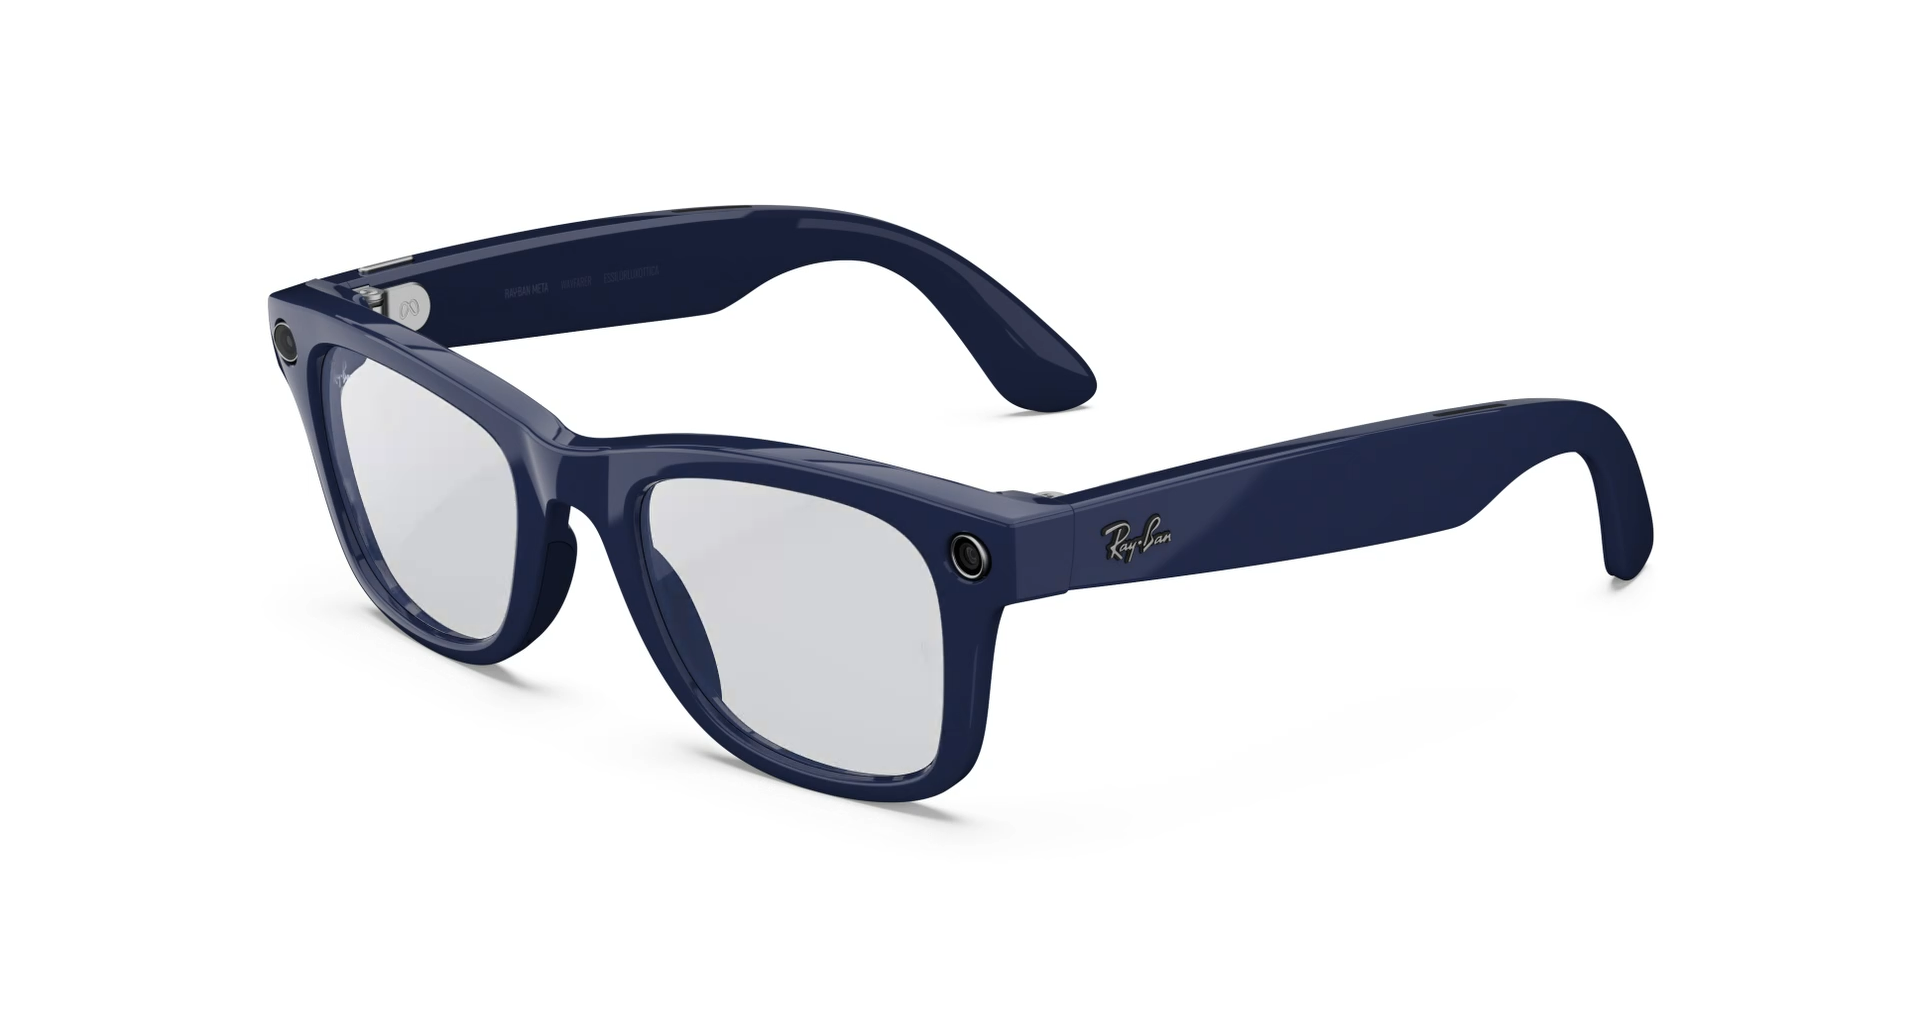
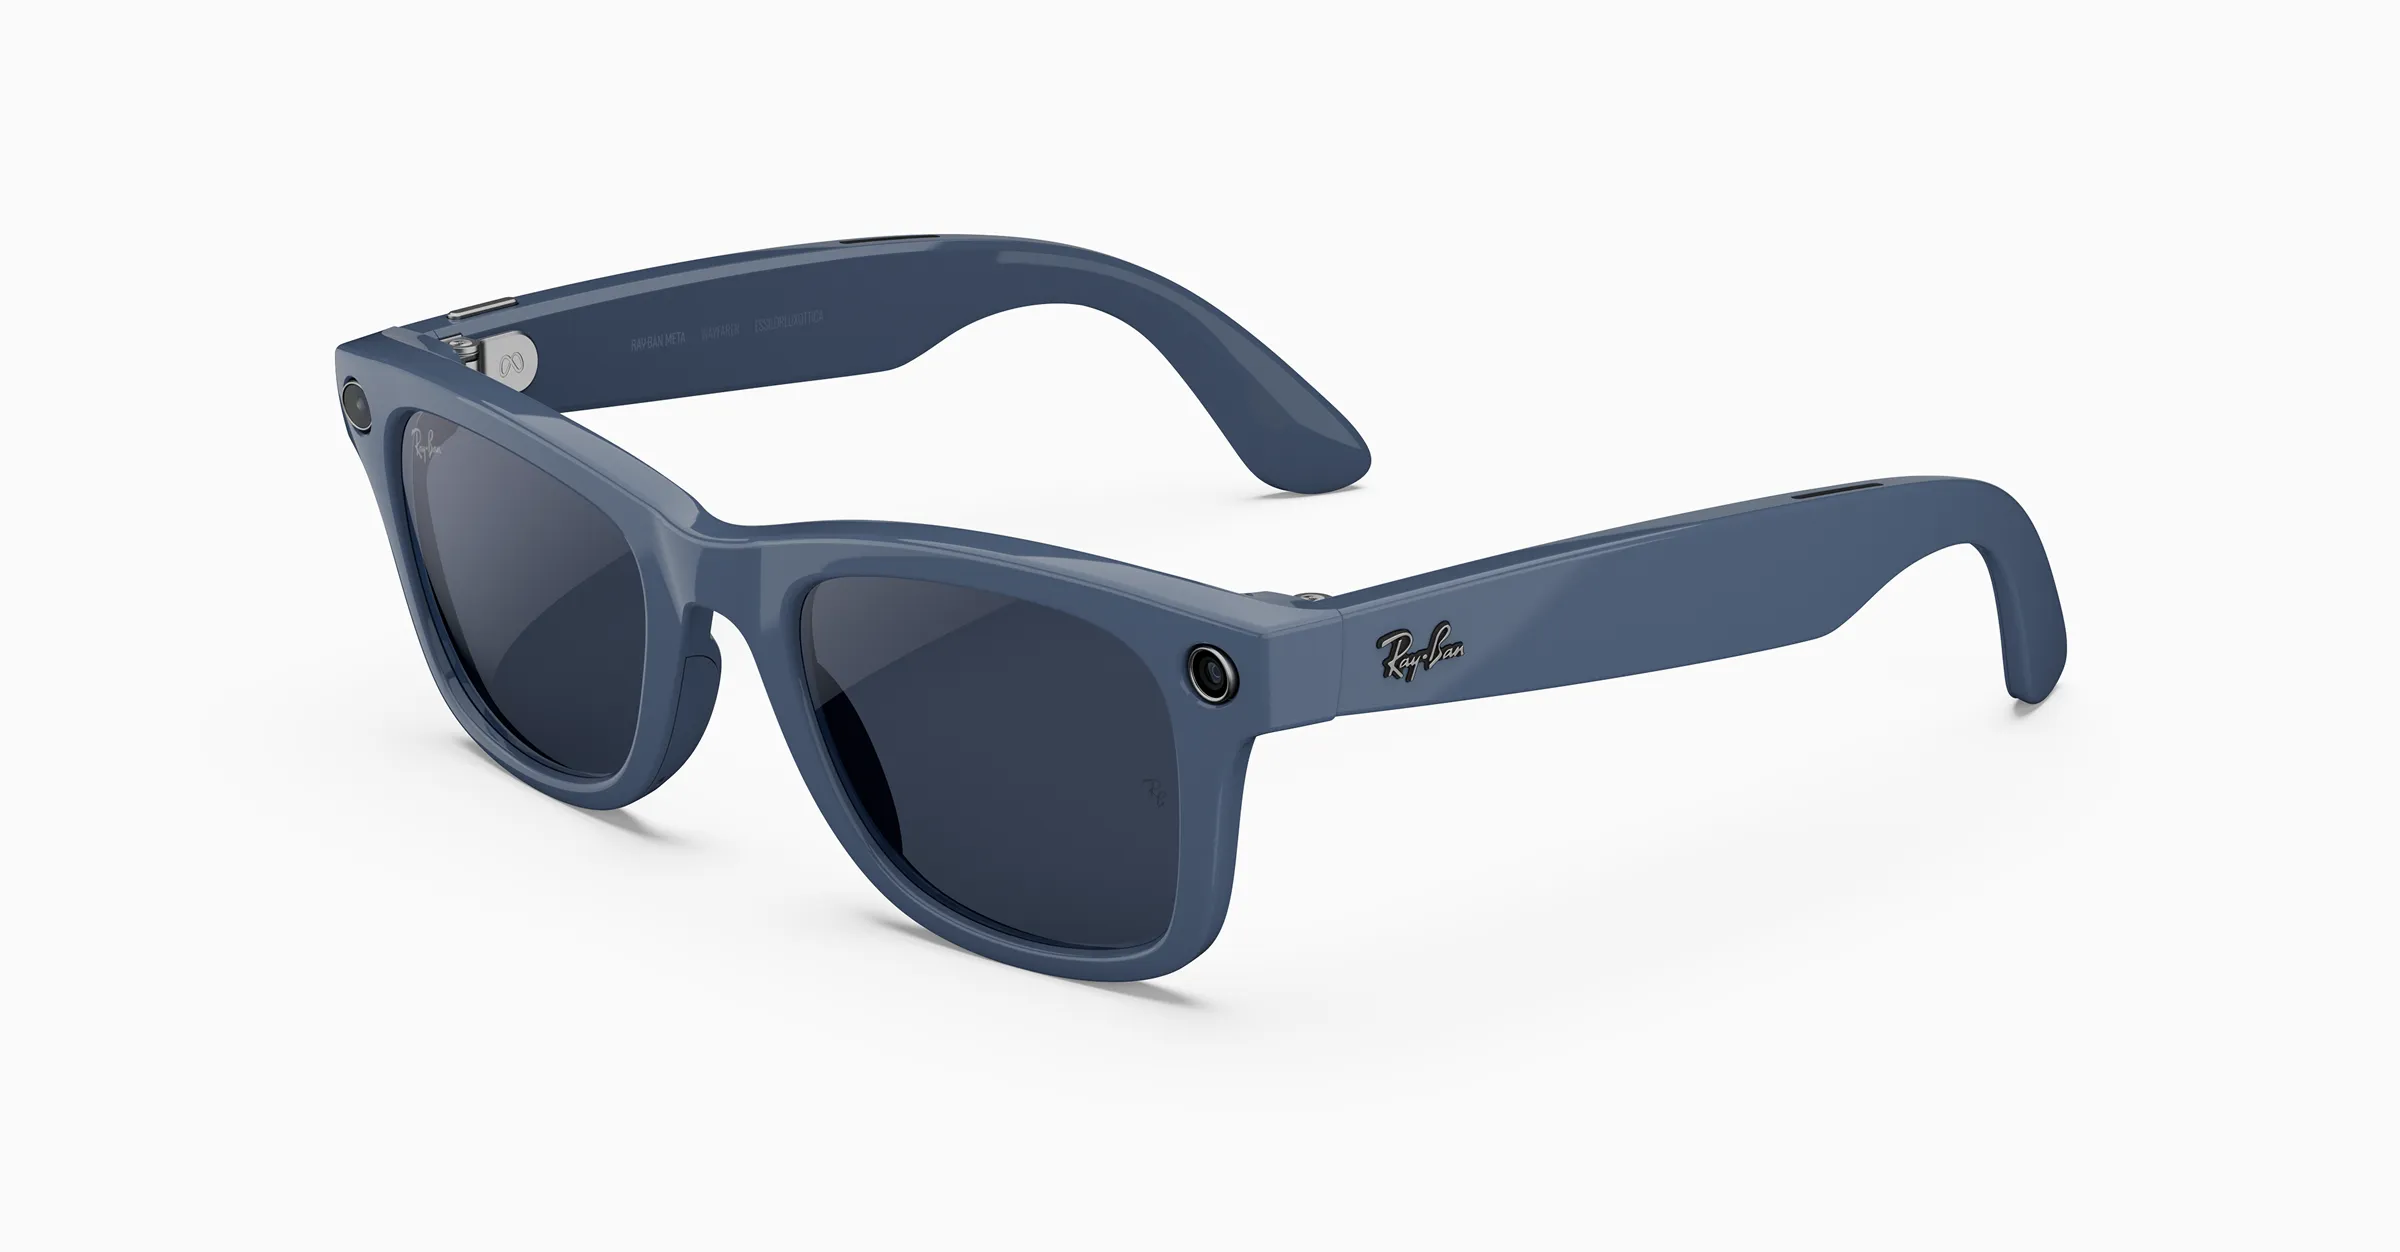
correções foto e nome

Changed region(s): [[0.125, 0.1853, 0.875, 0.8031]]

diff --git a/index.html b/index.html
@@ -4,7 +4,7 @@
 <head>
   <meta charset="utf-8" />
   <meta name="viewport" content="width=device-width,initial-scale=1" />
-  <title>Mercadótica | RayBan Meta</title>
+  <title>Mercadótica | Ray-Ban Meta</title>
   <link rel="stylesheet" href="styles.css" />
 </head>
 
@@ -264,7 +264,7 @@
   <p>Compre o Ray-Ban Meta agora — escolha modelo, cor e lentes para levar sua perspectiva ao próximo nível.</p>
   <div class="btn-group">
     <a class="btn primary"
-      href="https://wa.me/557734296068?text=Olá,%20gostaria%20de%20comprar%20o%20RayBan%20Meta%20">Comprar agora</a>
+      href="https://wa.me/557734296068?text=Olá,%20gostaria%20de%20comprar%20o%20Ray-Ban%20Meta%20">Comprar agora</a>
   </div>
 </section>
 
@@ -308,22 +308,55 @@
       else v0.play().catch(() => { });
     });
   </script>
-  <script>
-    // Ativar hotspots por toque no celular
-    document.querySelectorAll('.hotspot').forEach(hotspot => {
-      hotspot.addEventListener('click', function (e) {
-        e.stopPropagation(); // Evita conflito com outros toques
-        this.classList.toggle('active'); // Mostra/oculta o texto
-      });
-    });
+<script>
+  // Ativar hotspots por toque no celular
+  document.querySelectorAll('.hotspot').forEach(hotspot => {
+    hotspot.addEventListener('click', function (e) {
+      e.stopPropagation();
 
-    // Fechar hotspot se clicar fora
-    document.addEventListener('click', function (e) {
-      if (!e.target.closest('.hotspot')) {
-        document.querySelectorAll('.hotspot.active').forEach(h => h.classList.remove('active'));
+      // Fecha todos os outros antes de abrir o atual
+      document.querySelectorAll('.hotspot.active').forEach(h => {
+        if (h !== this) h.classList.remove('active');
+      });
+
+      // Alterna apenas o clicado
+      this.classList.toggle('active');
+    });
+  });
+
+  // Fecha todos ao clicar fora
+  document.addEventListener('click', function (e) {
+    if (!e.target.closest('.hotspot')) {
+      document.querySelectorAll('.hotspot.active').forEach(h => h.classList.remove('active'));
+    }
+  });
+</script>
+<script>
+  // Ajusta posição automática do tooltip se estiver perto da borda
+  function adjustTooltipPositions() {
+    document.querySelectorAll('.hotspot').forEach(hotspot => {
+      const info = hotspot.querySelector('.hotspot-info');
+      if (!info) return;
+
+      // Reseta alinhamento
+      info.removeAttribute('data-align');
+
+      const rect = hotspot.getBoundingClientRect();
+      const screenWidth = window.innerWidth;
+
+      if (rect.left < 80) {
+        info.setAttribute('data-align', 'left');
+      } else if (screenWidth - rect.right < 80) {
+        info.setAttribute('data-align', 'right');
       }
     });
-  </script>
+  }
+
+  // Reajusta quando carrega e ao redimensionar
+  window.addEventListener('load', adjustTooltipPositions);
+  window.addEventListener('resize', adjustTooltipPositions);
+</script>
+
 
 </body>
 

diff --git a/styles.css b/styles.css
@@ -611,3 +611,28 @@ footer a:hover {
     opacity: 1;
     visibility: visible;
 }
+@media (max-width: 768px) {
+    .hotspot-info {
+        bottom: auto;
+        top: 110%;
+        left: 50%;
+        transform: translateX(-50%);
+        white-space: normal;
+        width: max-content;
+        max-width: 180px;
+        text-align: center;
+    }
+    .hotspot-info::after {
+        top: -6px;
+        transform: translateX(-50%) rotate(180deg);
+    }
+        .hotspot-info[data-align="left"] {
+            left: 10%;
+            transform: translateX(0);
+        }
+                .hotspot-info[data-align="right"] {
+                    left: auto;
+                    right: 10%;
+                    transform: translateX(0);
+                }
+}
